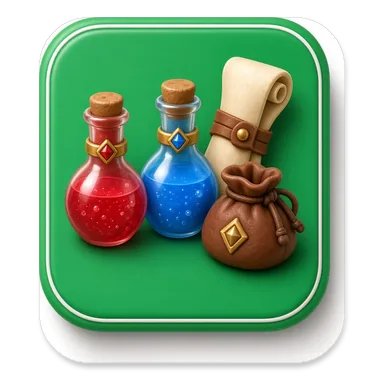
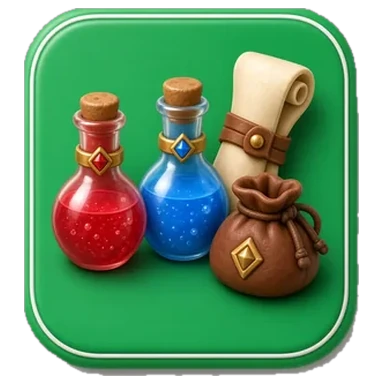
施設アイコンの、タイルの外の白い枠・影を切り取る（判断329）
Claude-Session: https://claude.ai/code/session_01XyPdx9GvFrV21oECaXxgAy

diff --git a/DECISIONS.md b/DECISIONS.md
@@ -960,3 +960,7 @@
 - スマホ（幅 560px 以下）で、フィールドの絵を、画面の左右の余白をなくして、画面のはばいっぱい（390px 幅で 360→390px。角丸・左右の縁もなし）にした。建物の名札の文字を 12px→13.5px に大きくした。施設のアイコンは、少し小さく（最大 92→72px）した。
 - 絵を拡大して、左右を切り取る方法は、建物の名札（左はしの木工所・右はしの鉱山）が欠けるので、していない。もっと大きくするときは、名札の位置を調整する。
 
+## 判断329：施設アイコンの、タイルの外の白い枠・影を切り取った
+- ユーザーのコメント：アイコンの色つきの四角の外側に、白い枠が付いていて、いらない。トリミングしてほしい（ほかのアイコンも）。
+- `img/art/fac-*.webp` 8枚の、色つきのタイルのまわりの白いふち・うす灰色の影（タイルの外に続く白・うす灰色・半透明の部分）を透明にして、タイルだけを切り出した。タイルが 384×384 の画面いっぱい（まわりの余白 8px）になるよう、拡大して置き直した（絵の縦横の比は変えていない）。ほかの絵（画風・色・中身）は変えていない。画面のアイコンは、そのぶん、少し大きく見える。
+
